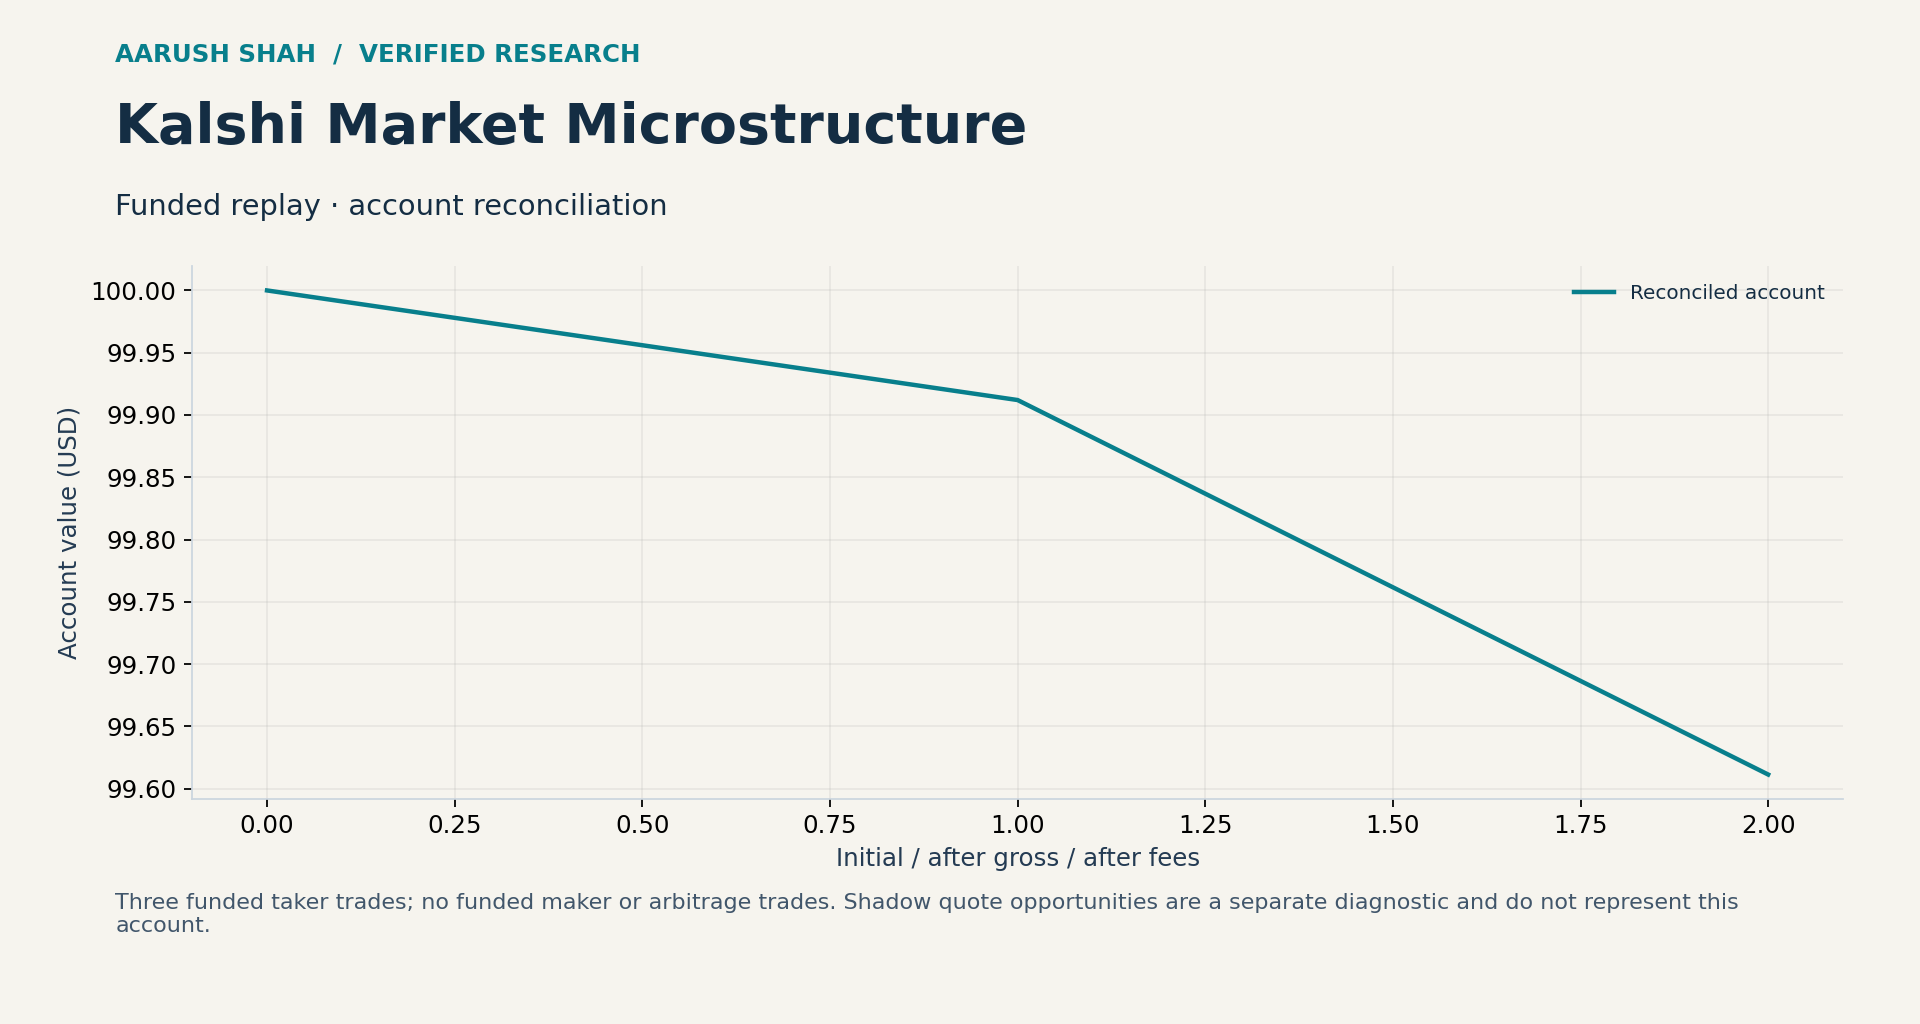
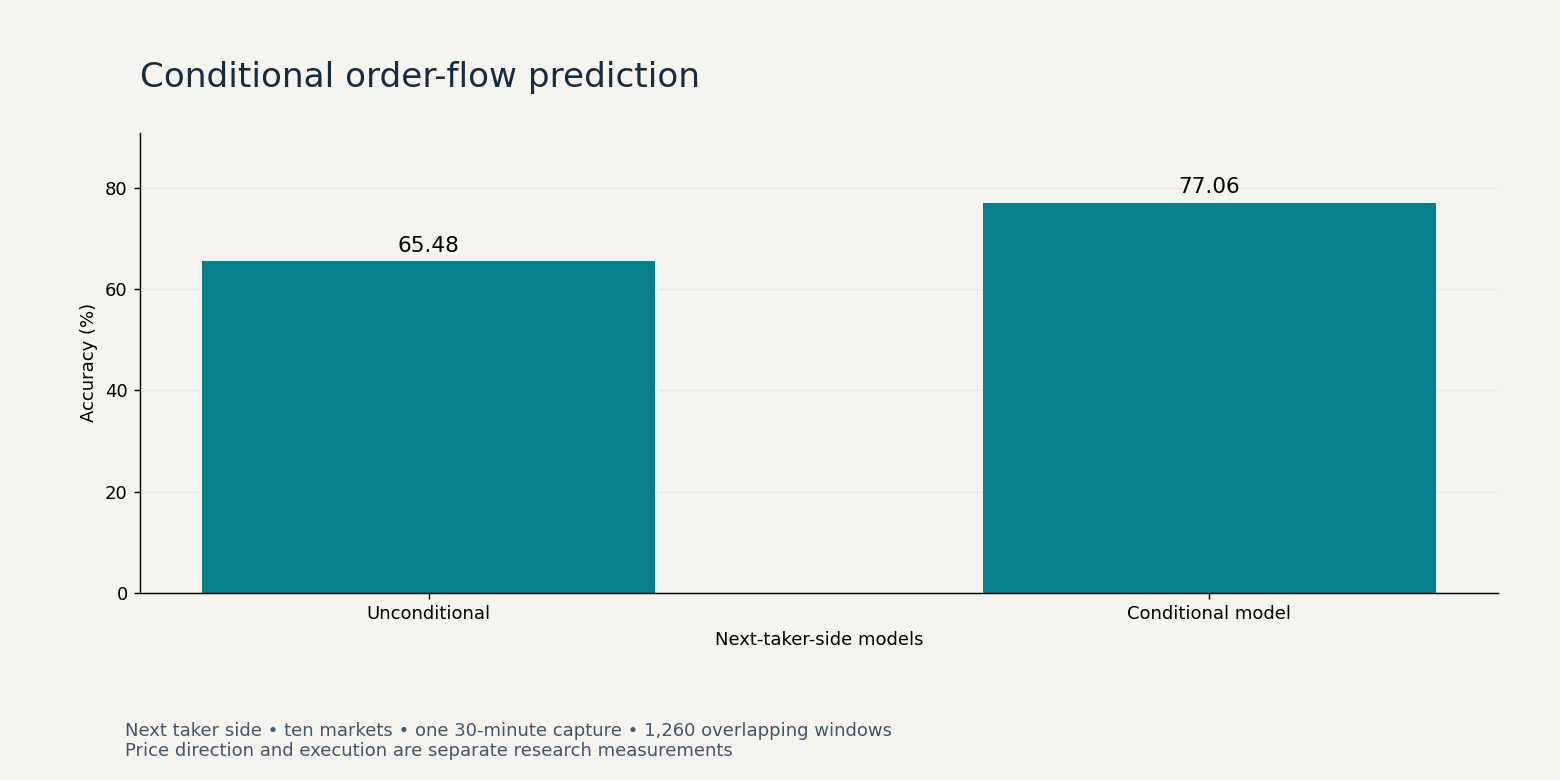
Lead with conditional order-flow prediction and research diagnostics

diff --git a/docs/explorer.html b/docs/explorer.html
@@ -1,7 +1,7 @@
 <!doctype html><html lang="en"><meta charset="utf-8"><meta name="viewport" content="width=device-width,initial-scale=1"><title>Kalshi Market Microstructure</title><style>
  *{box-sizing:border-box}body{margin:0;background:#f6f4ee;color:#142d43;font:16px/1.6 system-ui,sans-serif}main{max-width:1180px;margin:auto;padding:48px 30px}header{border-top:5px solid #087f8c;padding-top:20px}.eyebrow{letter-spacing:.18em;font-size:12px;font-weight:700;color:#087f8c}h1{font-size:clamp(32px,5vw,54px);line-height:1.08;margin:14px 0}h2{font-size:22px}p{max-width:940px;color:#41566b}select,input,button{padding:10px;border:1px solid #b5c4cf;border-radius:6px;background:white;color:#142d43;font:inherit}select{max-width:100%}.controls{display:flex;gap:22px;align-items:center;flex-wrap:wrap;margin:32px 0}.cards{display:grid;grid-template-columns:repeat(auto-fit,minmax(180px,1fr));gap:14px}.card,.panel{background:#fff;border:1px solid #dce3e8;border-radius:12px;padding:22px}.value{font-size:28px;font-weight:650}.label{font-size:12px;text-transform:uppercase;letter-spacing:.06em;color:#53697a}.panel{margin-top:20px}canvas{width:100%;height:350px}.note{border-left:3px solid #b67935;padding:10px 18px;background:#fcf0db}footer{margin-top:28px;font-size:13px;color:#61788a}a{color:#087f8c}table{border-collapse:collapse;width:100%}td,th{padding:8px;border-bottom:1px solid #ddd;text-align:left}@media(max-width:600px){main{padding:24px 16px}.value{font-size:22px}canvas{height:280px}}
- </style><main><header><div class="eyebrow">AARUSH SHAH / RESEARCH NOTEBOOK / VERIFIED REPLAY</div><h1>Kalshi Market Microstructure</h1><p>Separate predictive diagnostics from funded execution and inventory risk.</p></header><div class="controls"><label>Experiment <select id="case"></select></label><label id="feecontrol">Fee per side (bps) <input id="fee" type="range" min="0" max="5" step="0.05" value="0.1"><b id="feevalue"></b></label></div><div class="cards" id="cards"></div><section class="panel"><h2 id="charttitle"></h2><canvas id="chart" aria-label="Research result chart" role="img"></canvas><p id="legend"></p><p id="description"></p></section><section class="panel"><h2>What this establishes</h2><div id="details"></div><p><a id="data" href="">Open the full evidence file</a></p></section><section class="note">Overlapping windows are not independent trials. Next-taker-side prediction differs from price-direction prediction. Shadow opportunities and funded account P&amp;L must stay separate.</section><footer>Reproducibility audit · 9 October 2026 · All figures are scoped to the displayed experiment. No external scripts, tracking, or network requests.</footer></main><script>
- const cases=[{"name": "Funded replay \u00b7 account reconciliation", "cards": [["Recorded events", "418,577"], ["Funded trades", 3], ["Net P&L", "$-0.3887"]], "x": [0, 1, 2], "xlabel": "Initial / after gross / after fees", "ylabel": "Account value (USD)", "series": [{"name": "Reconciled account", "y": [100.0, 99.912, 99.6113], "color": "#087f8c"}], "chartTitle": "Fees deepen a small gross loss", "description": "Three funded taker trades; no funded maker or arbitrage trades. Shadow quote opportunities are a separate diagnostic and do not represent this account.", "details": "Trade-flow next-side accuracy: 77.06% versus 65.48% baseline on 1,260 overlapping windows. Three-state accuracy: 77.3% versus 82.0% always-ZERO baseline. Do not combine these targets or interpret accuracy as profit.", "evidence": "../verification/reconciliation.json"}, {"name": "Two-leg shadow execution \u00b7 diagnostic", "cards": [["Opportunities", 636], ["Both legs filled", 235], ["Completion", "36.95%"]], "x": [0, 1, 2], "xlabel": "Paired / one-sided / no fill", "ylabel": "Count", "series": [{"name": "Outcome counts", "y": [235, 251, 150], "color": "#c2693a"}], "chartTitle": "Completion risk in apparent arbitrage", "description": "235 paired, 251 one-sided, and 150 unfilled opportunities. These shadow outcomes are not funded account trades.", "details": "The 36.95% completion fraction uses all 636 opportunities as its denominator. Apparent two-leg edge can leave one-sided inventory exposure.", "evidence": "../verification/reconciliation.json"}],sel=document.getElementById('case'),fee=document.getElementById('fee');
+ </style><main><header><div class="eyebrow">AARUSH SHAH / RESEARCH NOTEBOOK / VERIFIED REPLAY</div><h1>Kalshi Market Microstructure</h1><p>Conditional order-flow prediction, first-passage states, and joint fill probability.</p></header><div class="controls"><label>Experiment <select id="case"></select></label><label id="feecontrol">Fee per side (bps) <input id="fee" type="range" min="0" max="5" step="0.05" value="0.1"><b id="feevalue"></b></label></div><div class="cards" id="cards"></div><section class="panel"><h2 id="charttitle"></h2><canvas id="chart" aria-label="Research result chart" role="img"></canvas><p id="legend"></p><p id="description"></p></section><section class="panel"><h2>Research interpretation</h2><div id="details"></div><p><a id="data" href="">Open the full evidence file</a></p></section><section class="note">Overlapping windows are not independent trials. Next-taker-side prediction differs from price-direction prediction. Shadow opportunities and funded account P&amp;L must stay separate.</section><footer>Research notebook · presentation updated 16 October 2026 · All figures are scoped to the displayed experiment. No external scripts, tracking, or network requests.</footer></main><script>
+ const cases=[{"name":"Research overview · next-taker-side prediction","cards":[["Model accuracy","77.06%"],["Unconditional baseline","65.48%"],["Scored windows","1,260"],["Recorded messages","418,577"]],"x":["Unconditional","Conditional model"],"xlabel":"Next-taker-side models","ylabel":"Accuracy (%)","series":[{"name":"Next-taker-side accuracy (%)","y":[65.48,77.06],"color":"#087f8c"}],"bar":true,"chartTitle":"Conditional order-flow prediction","description":"The full-state model scores 77.06% versus 65.48% for the unconditional baseline: a difference of 11.58 percentage points on this capture.","details":"Ten markets, one 30-minute capture, and overlapping 50-trade windows. The target is next taker side. Price-direction labels, quote-completion scenarios and funded account outcomes use separate measurements. Select an experiment above for execution and inventory diagnostics.","evidence":"../verification/reconciliation.json"},{"name":"Funded replay · account reconciliation","cards":[["Recorded events","418,577"],["Funded trades",3],["Net P&L","$-0.3887"]],"x":[0,1,2],"xlabel":"Initial / after gross / after fees","ylabel":"Account value (USD)","series":[{"name":"Reconciled account","y":[100,99.912,99.6113],"color":"#087f8c"}],"chartTitle":"Funded replay: gross, fees and account reconciliation","description":"Three funded taker trades; no funded maker or arbitrage trades. Shadow quote opportunities are a separate diagnostic and do not represent this account.","details":"Trade-flow next-side accuracy: 77.06% versus 65.48% baseline on 1,260 overlapping windows. Three-state accuracy: 77.3% versus 82.0% always-ZERO baseline. Do not combine these targets or interpret accuracy as profit.","evidence":"../verification/reconciliation.json"},{"name":"Two-leg shadow execution · diagnostic","cards":[["Opportunities",636],["Both legs filled",235],["Completion","36.95%"]],"x":[0,1,2],"xlabel":"Paired / one-sided / no fill","ylabel":"Count","series":[{"name":"Outcome counts","y":[235,251,150],"color":"#c2693a"}],"chartTitle":"Completion risk in apparent arbitrage","description":"235 paired, 251 one-sided, and 150 unfilled opportunities. These shadow outcomes are not funded account trades.","details":"The 36.95% completion fraction uses all 636 opportunities as its denominator. Apparent two-leg edge can leave one-sided inventory exposure.","evidence":"../verification/reconciliation.json"}],sel=document.getElementById('case'),fee=document.getElementById('fee');
  cases.forEach((d,i)=>{let o=document.createElement('option');o.value=i;o.textContent=d.name;sel.append(o)});
  const fmt=x=>Number(x).toLocaleString(undefined,{maximumFractionDigits:3});
  function render(){let d=cases[+sel.value],f=+fee.value,series=d.series.map(s=>({...s,y:s.y.slice()})),cards=d.cards;
@@ -9,5 +9,5 @@
  if(d.ledger){let a=0,g=0;let net=d.ledger.map(t=>t[0]-2*f*t[1]);series=[{name:'Gross',color:'#087f8c',y:d.ledger.map(t=>(g+=t[0]))},{name:'After selected fee',color:'#c2693a',y:net.map(t=>(a+=t))}];let mean=net.reduce((a,b)=>a+b,0)/net.length,sd=Math.sqrt(net.reduce((a,b)=>a+(b-mean)**2,0)/net.length);cards=[['Closed trades',net.length],['Directional hit rate',d.hit],['Net win rate',(100*net.filter(x=>x>0).length/net.length).toFixed(1)+'%'],['Mean net weighted bps',fmt(mean)],['Mean / standard deviation',fmt(sd?mean/sd:0)]];}
  document.getElementById('cards').innerHTML=cards.map(([k,v])=>'<div class="card"><div class="label">'+k+'</div><div class="value">'+v+'</div></div>').join('');document.getElementById('charttitle').textContent=d.chartTitle;document.getElementById('description').textContent=d.description;document.getElementById('details').textContent=d.details;document.getElementById('data').href=d.evidence;document.getElementById('legend').textContent=series.map(s=>s.name).join('  ·  ');
  let canvas=document.getElementById('chart'),ctx=canvas.getContext('2d'),w=canvas.clientWidth,h=canvas.clientHeight;canvas.width=w*2;canvas.height=h*2;ctx.scale(2,2);ctx.clearRect(0,0,w,h);let ys=series.flatMap(s=>s.y),lo=Math.min(...ys),hi=Math.max(...ys),pad=(hi-lo)*.08||1;lo-=pad;hi+=pad;const X=i=>70+i*(w-100)/Math.max(1,d.x.length-1),Y=y=>h-48-(y-lo)/(hi-lo)*(h-76);ctx.font='12px system-ui';ctx.fillStyle='#53697a';ctx.strokeStyle='#e5e9ed';for(let i=0;i<5;i++){let y=lo+(hi-lo)*i/4;ctx.beginPath();ctx.moveTo(70,Y(y));ctx.lineTo(w-30,Y(y));ctx.stroke();ctx.fillText(fmt(y),2,Y(y)+4)}
- series.forEach(s=>{ctx.strokeStyle=s.color||'#087f8c';ctx.lineWidth=2;ctx.beginPath();s.y.forEach((y,i)=>i?ctx.lineTo(X(i),Y(y)):ctx.moveTo(X(i),Y(y)));ctx.stroke()});ctx.fillStyle='#53697a';ctx.fillText(String(d.x[0]??0),70,h-22);ctx.fillText(String(d.x.at(-1)??0),w-75,h-22);ctx.fillText(d.xlabel,w/2-70,h-5);
+ if(d.bar){let step=(w-100)/d.x.length;series[0].y.forEach((y,i)=>{let bx=70+step*i+step*.2,bw=step*.6;ctx.fillStyle=series[0].color||'#087f8c';ctx.fillRect(bx,Y(y),bw,Y(0)-Y(y));ctx.fillStyle='#142d43';ctx.textAlign='center';ctx.fillText(fmt(y),bx+bw/2,Y(y)-8);ctx.fillText(String(d.x[i]),bx+bw/2,h-22)});ctx.textAlign='left'}else{series.forEach(s=>{ctx.strokeStyle=s.color||'#087f8c';ctx.lineWidth=2;ctx.beginPath();s.y.forEach((y,i)=>i?ctx.lineTo(X(i),Y(y)):ctx.moveTo(X(i),Y(y)));ctx.stroke()});}ctx.fillStyle='#53697a';if(!d.bar){ctx.fillText(String(d.x[0]??0),70,h-22);ctx.fillText(String(d.x.at(-1)??0),w-75,h-22);}ctx.fillText(d.xlabel,w/2-70,h-5);
  }sel.onchange=render;fee.oninput=render;window.onresize=render;render();</script></html>

diff --git a/docs/AUDIT.md b/docs/AUDIT.md
@@ -8,10 +8,10 @@ The flow model updates only matured windows and makes predictions from current/p
 
 The historical three-state model had 150/194 correct matured predictions (77.3%), versus 159/194 (82.0%) for always ZERO. That metric is separate from next-taker-side accuracy. Maker completion is simulated, and there were no funded maker fills in the active run. Fee metadata was consistent at start and end; the fee implementation remains an explicit rounding/fill convention.
 
-## Limits and unresolved work
+## Evaluation scope
 
 - No live-order performance, brokerage statements, or independently audited investment track record.
 - No universal alpha claim or annualized Sharpe from this brief, dependent sample.
 - Other historical packages were recovered and indexed, not all rerun. Earlier GOOG/NSE first-passage results have documented leakage defects; see the separate first-passage project.
-- The historic Raedan >60% forward accuracy and approximately 0.5 per-trade Sharpe claims were not matched to a complete source dataset/ledger. They remain unverified.
 - Original code and figures retain historical wording. The current README and verification files control the interpretation of verified claims.
+
